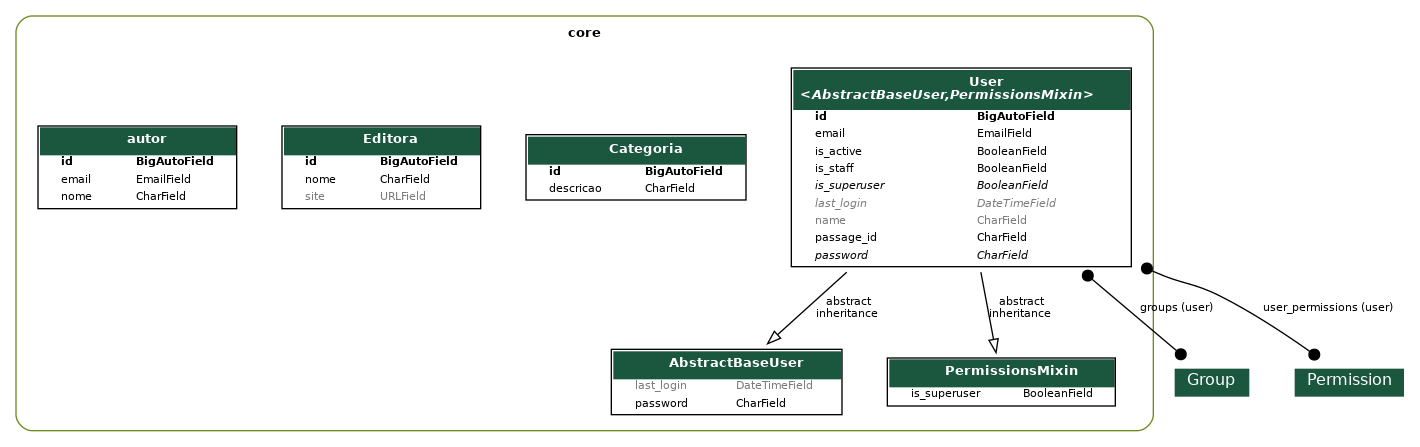
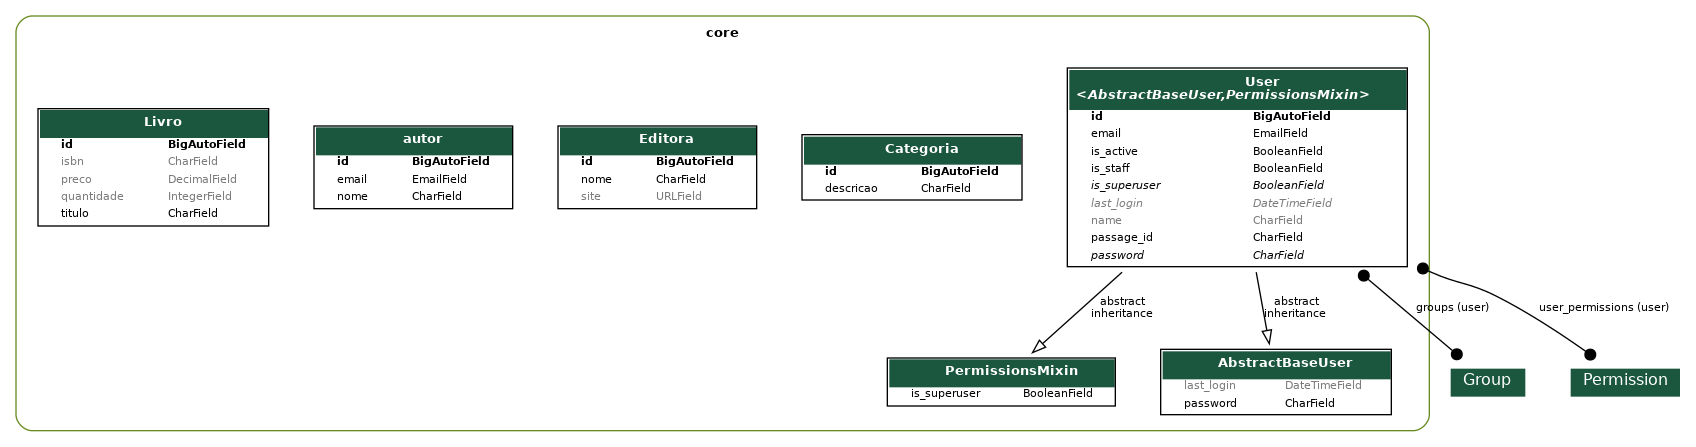
feat: criação da entidade para Livro.

diff --git a/core/migrations/0008_livro.py b/core/migrations/0008_livro.py
@@ -1,0 +1,23 @@
+# Generated by Django 5.1.7 on 2025-05-23 17:08
+
+from django.db import migrations, models
+
+
+class Migration(migrations.Migration):
+
+    dependencies = [
+        ('core', '0007_autor'),
+    ]
+
+    operations = [
+        migrations.CreateModel(
+            name='Livro',
+            fields=[
+                ('id', models.BigAutoField(auto_created=True, primary_key=True, serialize=False, verbose_name='ID')),
+                ('titulo', models.CharField(max_length=255)),
+                ('isbn', models.CharField(blank=True, max_length=32, null=True)),
+                ('quantidade', models.IntegerField(blank=True, default=0, null=True)),
+                ('preco', models.DecimalField(blank=True, decimal_places=2, default=0, max_digits=7, null=True)),
+            ],
+        ),
+    ]

diff --git a/app/urls.py b/app/urls.py
@@ -12,7 +12,7 @@ from core.views import UserViewSet
 
 from core.views import CategoriaViewSet, UserViewSet
 
-from core.views import CategoriaViewSet, EditoraViewSet, autorViewSet, UserViewSet
+from core.views import CategoriaViewSet, EditoraViewSet, autorViewSet, UserViewSet, LivroViewSet
 
 router = DefaultRouter()
 
@@ -21,6 +21,7 @@ router.register(r"editoras", EditoraViewSet)
 router.register(r'categorias', CategoriaViewSet, basename='categorias')
 router.register(r'usuarios', UserViewSet, basename='usuarios')
 router.register(r'autor', autorViewSet, basename='autor')
+router.register(r'Livro', LivroViewSet, basename='Livro')
 
 urlpatterns = [
     path('admin/', admin.site.urls),

diff --git a/core/models/livro.py b/core/models/livro.py
@@ -1,0 +1,11 @@
+
+from django.db import models
+
+class Livro(models.Model):
+    titulo = models.CharField(max_length=255)
+    isbn = models.CharField(max_length=32, null=True, blank=True)
+    quantidade = models.IntegerField(default=0,  null=True, blank=True)
+    preco = models.DecimalField(max_digits=7, decimal_places=2, default=0, null=True, blank=True)
+
+    def __str__(self):
+        return f"({self.id}) {self.titulo} ({self.quantidade})"

diff --git a/core/views/livro.py b/core/views/livro.py
@@ -1,0 +1,8 @@
+from rest_framework.viewsets import ModelViewSet
+
+from core.models import Livro
+from core.serializers import LivroSerializer
+
+class LivroViewSet(ModelViewSet):
+    queryset = Livro.objects.all()
+    serializer_class = LivroSerializer

diff --git a/core/serializers/livro.py b/core/serializers/livro.py
@@ -1,0 +1,8 @@
+from rest_framework.serializers import ModelSerializer
+
+from core.models import Livro
+
+class LivroSerializer(ModelSerializer):
+    class Meta:
+        model = Livro
+        fields = "__all__"

diff --git a/core/serializers/__init__.py b/core/serializers/__init__.py
@@ -2,3 +2,4 @@ from .user import UserSerializer
 from .categoria import CategoriaSerializer
 from .editora import EditoraSerializer
 from .autor import autorSerializer
+from .livro import LivroSerializer

diff --git a/core/views/__init__.py b/core/views/__init__.py
@@ -2,3 +2,4 @@ from .user import UserViewSet
 from .categoria import CategoriaViewSet
 from .editora import EditoraViewSet
 from .autor import autorViewSet
+from .livro import LivroViewSet

diff --git a/core/models/__init__.py b/core/models/__init__.py
@@ -2,3 +2,4 @@ from .user import User
 from .categoria import Categoria
 from .editora import Editora
 from .autor import autor
+from .livro import Livro
